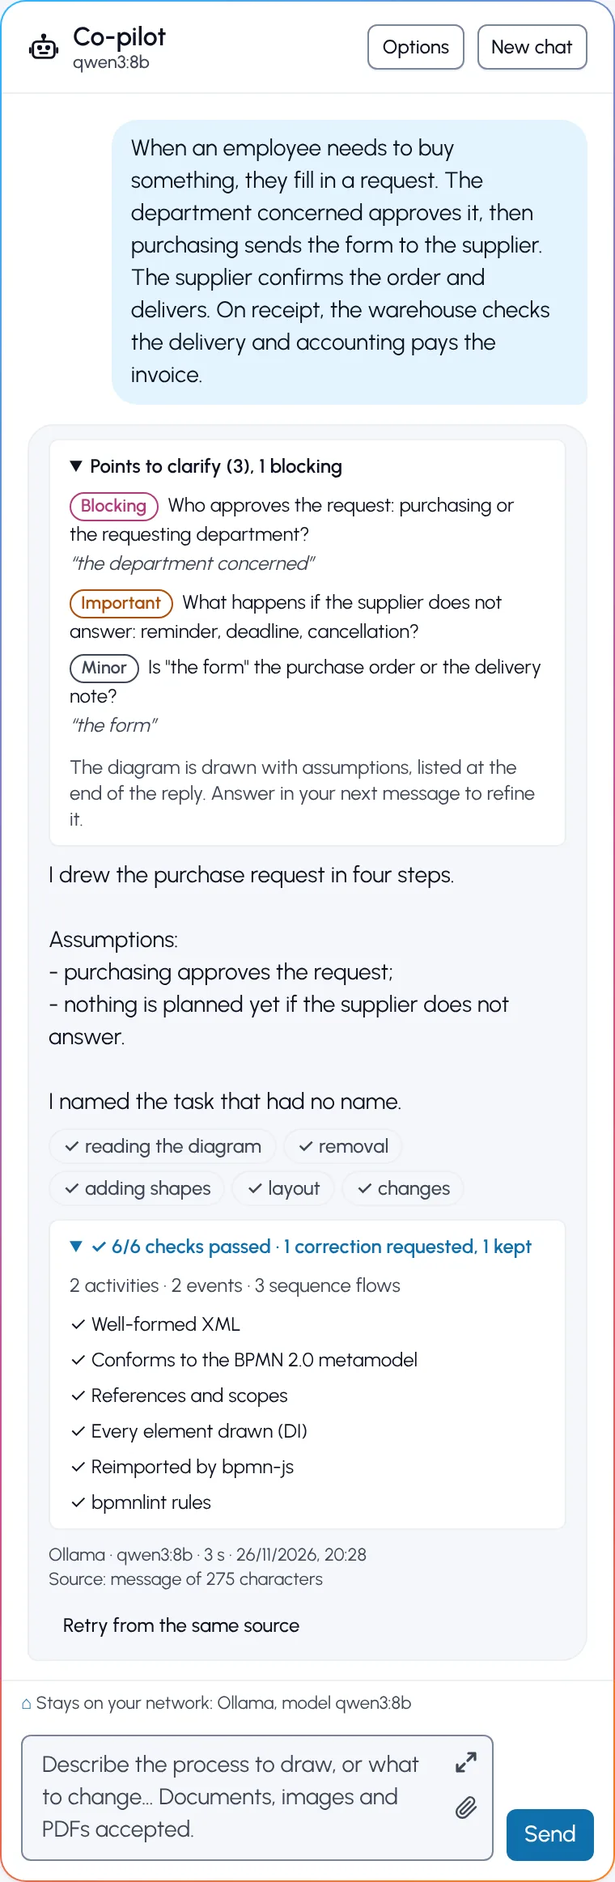
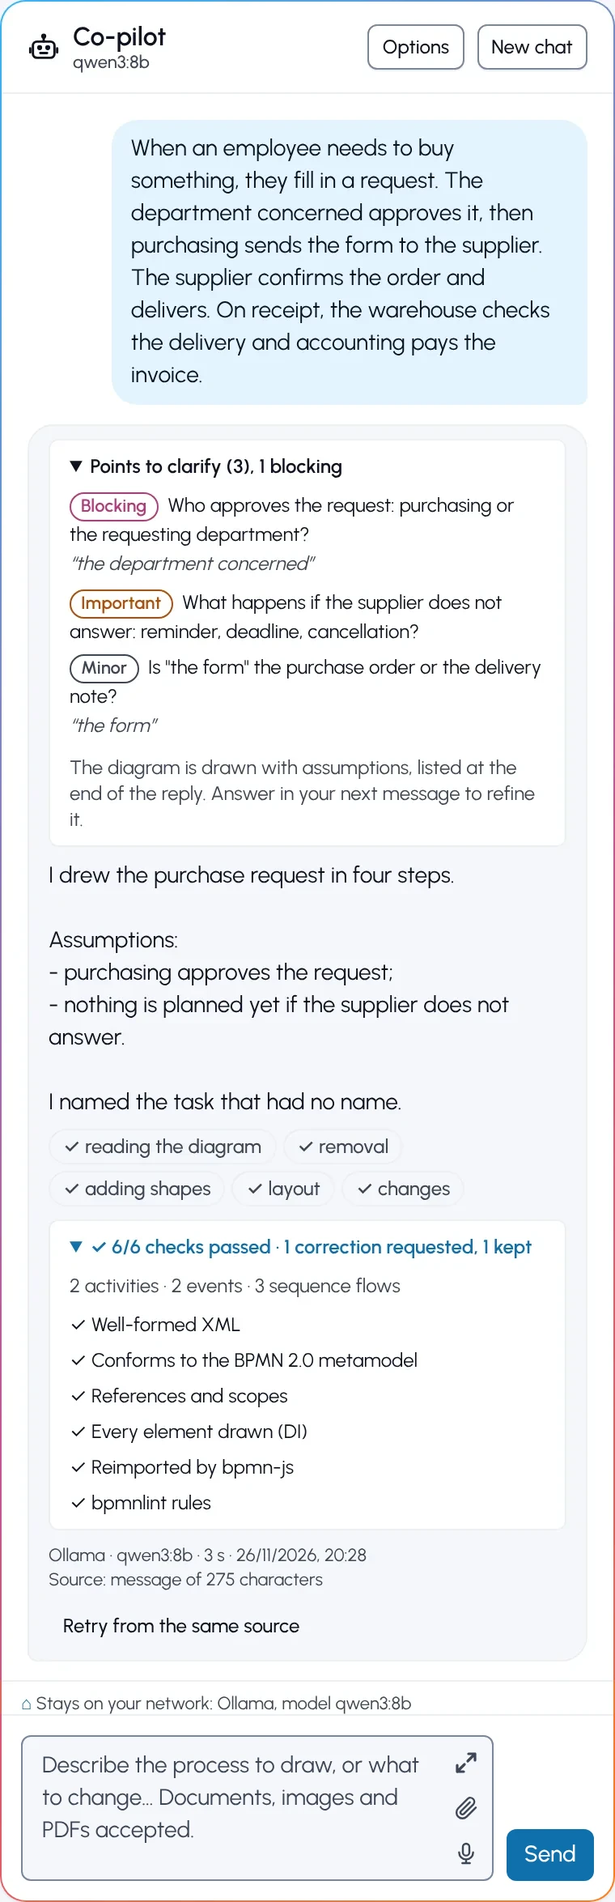
Add on-device voice dictation to the AI co-pilot
A microphone button under the paperclip transcribes speech into the input
box with the Web Speech API in on-device mode (processLocally), so neither
the audio nor the text leaves the browser. The button only appears when the
browser offers on-device recognition. Dictation is continuous until clicked
again, follows the interface language, and never sends on its own.

Allow the microphone for the site itself in the Docker image headers, and
document dictation in the help, the privacy notes and the README.

diff --git a/aide.html b/aide.html
@@ -408,6 +408,7 @@
           <li>La zone de saisie grandit avec le texte. Le bouton dans son coin ouvre un grand éditeur, pour coller un long texte ou ouvrir un fichier .txt ou .md. <kbd>Ctrl</kbd>+<kbd>Entrée</kbd> envoie.</li>
           <li><span class="uib">Nouvelle discussion</span> repart de zéro. Le schéma, lui, ne change pas.</li>
           <li><span class="uib">Arrêter</span> interrompt une réponse en cours.</li>
+          <li><span class="uib"><svg class="ico" viewBox="0 0 24 24" fill="none" stroke="currentColor" stroke-width="1.8" stroke-linecap="round" stroke-linejoin="round" aria-hidden="true"><rect x="9" y="3" width="6" height="11" rx="3"/><path d="M5.5 11a6.5 6.5 0 0 0 13 0M12 17.5V21M8.5 21h7"/></svg>Dicter</span>, sous le trombone, transcrit votre voix dans la zone de saisie, dans la langue de l'interface. Un clic lance la dictée, un autre l'arrête. Pendant la dictée, le bouton est rouge et le texte provisoire s'affiche en gris au-dessus de la saisie. Rien ne part sans <span class="uib">Envoyer</span> : relisez d'abord, un mot mal compris change le dessin. La voix est reconnue sur votre appareil, ni le son ni le texte ne quittent le navigateur. Il faut Chrome ou Edge 139 ou plus, ou Firefox 160 ou plus, sur ordinateur. Ailleurs, le bouton n'apparaît pas. À la première dictée, le navigateur télécharge une fois le modèle vocal de la langue et demande l'accès au micro.</li>
         </ul>
 
         <h3>3. Partir d'un fichier</h3>
@@ -646,7 +647,7 @@ Pour finir : vérifie le diagramme, corrige ce qui échoue et résume le process
         </div>
         <h3 id="controles-ia">Critique, contrôles et traçabilité</h3>
         <p>Autour de chaque réponse, le co-pilote montre ce qu'il a compris, ce que l'éditeur a vérifié et d'où vient le résultat.</p>
-        <figure><img src="/src/help/img/fr-ia-controles.webp" width="380" height="1188" alt="Panneau du co-pilote après une demande d'achat : trois points à clarifier marqués Bloquant, Important et Mineur, la réponse avec ses hypothèses, le rapport 6/6 contrôles réussis avec 1 correction demandée et 1 retenue, la ligne fournisseur, modèle, durée et date, le bouton Relancer depuis la même source et la ligne de destination au-dessus du champ." loading="lazy" /><figcaption>Points à clarifier, rapport de contrôle, traçabilité et destination, autour d'une réponse.</figcaption></figure>
+        <figure><img src="/src/help/img/fr-ia-controles.webp" width="380" height="1200" alt="Panneau du co-pilote après une demande d'achat : trois points à clarifier marqués Bloquant, Important et Mineur, la réponse avec ses hypothèses, le rapport 6/6 contrôles réussis avec 1 correction demandée et 1 retenue, la ligne fournisseur, modèle, durée et date, le bouton Relancer depuis la même source et la ligne de destination au-dessus du champ." loading="lazy" /><figcaption>Points à clarifier, rapport de contrôle, traçabilité et destination, autour d'une réponse.</figcaption></figure>
         <ul>
           <li><strong>Critique de la demande.</strong> Avant de dessiner une description (200 caractères au moins, ou un fichier joint), le modèle relève ce qui est ambigu ou manquant : acteurs, déclencheur, résultats, décisions, exceptions et délais, boucles, documents échangés, vocabulaire flou. Chaque point porte une gravité (<span class="ui">Bloquant</span>, <span class="ui">Important</span>, <span class="ui">Mineur</span>), la question à trancher et, s'il existe, le passage cité. Le dessin part aussitôt, avec des hypothèses que le modèle liste en fin de réponse. Répondez aux questions dans le message suivant pour affiner le diagramme.</li>
           <li><strong>Rapport de contrôle.</strong> Après chaque réponse qui a modifié le diagramme, l'éditeur le vérifie lui-même, sans appel au modèle. Le rapport donne les compteurs (pools, couloirs, activités, passerelles, événements, flux) et six contrôles : XML bien formé, conformité au métamodèle BPMN 2.0 (éléments et attributs connus), références et portées (un flux de séquence reste dans son processus, un flux de message relie deux pools), chaque élément dessiné (partie graphique DI complète), réimport par bpmn-js sans avertissement, règles bpmnlint sans erreur. Un clic sur la ligne du rapport en déplie le détail.</li>
@@ -685,6 +686,7 @@ Pour finir : vérifie le diagramme, corrige ce qui échoue et résume le process
           <!-- online -->
           <li>Vos diagrammes, vos réglages et vos clés API restent dans votre navigateur. Ils ne sont transmis ni à nous ni à l'hébergeur du site (GitHub Pages).</li>
           <li>Si vous utilisez le co-pilote IA, vos messages, le diagramme, vos fichiers joints et votre clé partent directement de votre navigateur chez le fournisseur choisi, qui applique ses propres conditions et sa politique de confidentialité. N'y mettez pas de données que vous ne confieriez pas à ce fournisseur.</li>
+          <li>La dictée vocale du co-pilote reconnaît la voix sur votre appareil : ni le son ni le texte dicté ne quittent le navigateur avant que vous envoyiez le message.</li>
           <li>Comme tout hébergeur web, GitHub Pages garde des journaux techniques, dont votre adresse IP.</li>
           <li>Le site stable compte ses visites de façon anonyme, sans cookie (rien n'est compté sur la version de développement), conformément aux <a href="https://www.cnil.fr/fr/cookies-solutions-pour-les-outils-de-mesure-daudience" target="_blank" rel="noopener">recommandations de la CNIL</a> pour l'audience exemptée de consentement. L'adresse IP n'est pas enregistrée. Elle sert uniquement à déterminer le pays, la région et la ville. Sont collectés : la page consultée et le site de provenance, les caractéristiques de l'appareil transmises par le navigateur, et quelques actions sans leur contenu (création, ouverture ou export d'un diagramme, utilisation du co-pilote, type de fournisseur connecté, temps d'utilisation par tranche, clic vers la page de soutien). Les signaux « Do Not Track » et « Global Privacy Control » désactivent la mesure.</li>
           <li>Le site ne charge aucun script tiers.</li>
@@ -694,6 +696,7 @@ Pour finir : vérifie le diagramme, corrige ce qui échoue et résume le process
           <!-- docker -->
           <li>Vos diagrammes, vos réglages et vos clés API restent dans votre navigateur, ou sur votre serveur pour ce que vous y enregistrez. Rien n'est envoyé à l'auteur de l'éditeur.</li>
           <li>Si vous utilisez le co-pilote IA, vos messages, le diagramme et vos fichiers joints passent par votre serveur jusqu'au fournisseur choisi, qui applique ses propres conditions et sa politique de confidentialité. N'y mettez pas de données que vous ne confieriez pas à ce fournisseur.</li>
+          <li>La dictée vocale du co-pilote reconnaît la voix sur votre appareil : ni le son ni le texte dicté ne quittent le navigateur avant que vous envoyiez le message.</li>
           <li>Un agent connecté par MCP lit et modifie le diagramme ouvert. Ce qu'il en fait dépend de l'agent et de son fournisseur.</li>
           <li>Cette version ne mesure pas sa fréquentation et ne charge aucun script tiers.</li>
           </ul>

diff --git a/help.html b/help.html
@@ -408,6 +408,7 @@
           <li>The input box grows with the text. The button in its corner opens a large editor, to paste long text or open a .txt or .md file. <kbd>Ctrl</kbd>+<kbd>Enter</kbd> sends.</li>
           <li><span class="uib">New chat</span> starts over. Your drawing does not change.</li>
           <li><span class="uib">Stop</span> interrupts an answer in progress.</li>
+          <li><span class="uib"><svg class="ico" viewBox="0 0 24 24" fill="none" stroke="currentColor" stroke-width="1.8" stroke-linecap="round" stroke-linejoin="round" aria-hidden="true"><rect x="9" y="3" width="6" height="11" rx="3"/><path d="M5.5 11a6.5 6.5 0 0 0 13 0M12 17.5V21M8.5 21h7"/></svg>Dictate</span>, under the paperclip, transcribes your voice into the input box, in the interface language. One click starts dictation, another stops it. While dictating, the button turns red and the provisional text shows in gray above the input. Nothing is sent until you click <span class="uib">Send</span>: read it first, a misheard word changes the drawing. Speech is recognized on your device: neither the sound nor the text leaves the browser. It needs Chrome or Edge 139 or later, or Firefox 160 or later, on a computer. Elsewhere, the button does not appear. On the first dictation, the browser downloads the speech model for the language once and asks for microphone access.</li>
         </ul>
 
         <h3>3. Start from a file</h3>
@@ -646,7 +647,7 @@ To finish: check the diagram, fix what fails and sum up the process in five line
         </div>
         <h3 id="ai-checks">Review, checks and traceability</h3>
         <p>Around each answer, the co-pilot shows what it understood, what the editor checked and where the result comes from.</p>
-        <figure><img src="/src/help/img/en-ia-controles.webp" width="380" height="1163" alt="AI co-pilot panel after a purchase request: three points to clarify marked Blocking, Important and Minor, the answer with its assumptions, the report 6/6 checks passed with 1 correction requested and 1 kept, the provider, model, duration and date line, the Retry from the same source button and the destination line above the input." loading="lazy" /><figcaption>Points to clarify, check report, traceability and destination, around an answer.</figcaption></figure>
+        <figure><img src="/src/help/img/en-ia-controles.webp" width="380" height="1175" alt="AI co-pilot panel after a purchase request: three points to clarify marked Blocking, Important and Minor, the answer with its assumptions, the report 6/6 checks passed with 1 correction requested and 1 kept, the provider, model, duration and date line, the Retry from the same source button and the destination line above the input." loading="lazy" /><figcaption>Points to clarify, check report, traceability and destination, around an answer.</figcaption></figure>
         <ul>
           <li><strong>Review of the request.</strong> Before drawing a description (200 characters or more, or an attached file), the model lists what is ambiguous or missing: actors, trigger, results, decisions, exceptions and deadlines, loops, documents exchanged, vague wording. Each point has a severity (<span class="ui">Blocking</span>, <span class="ui">Important</span>, <span class="ui">Minor</span>), the question to settle and, when there is one, the passage quoted. The drawing starts right away, with assumptions the model lists at the end of its answer. Answer the questions in your next message to refine the diagram.</li>
           <li><strong>Check report.</strong> After each answer that changed the diagram, the editor checks it itself, without calling the model. The report gives the counts (pools, lanes, activities, gateways, events, flows) and six checks: well-formed XML, conformance to the BPMN 2.0 metamodel (known elements and attributes), references and scopes (a sequence flow stays in its process, a message flow connects two pools), every element drawn (complete DI), reimport by bpmn-js without warnings, no bpmnlint error. Click the report line to unfold the details.</li>
@@ -685,6 +686,7 @@ To finish: check the diagram, fix what fails and sum up the process in five line
           <!-- online -->
           <li>Your diagrams, settings and API keys stay in your browser. They are not sent to us, nor to the host of this site (GitHub Pages).</li>
           <li>If you use the AI co-pilot, your messages, the diagram, your attached files and your key go straight from your browser to the chosen provider, which applies its own terms and privacy policy. Do not include data you would not trust that provider with.</li>
+          <li>The co-pilot's voice dictation recognizes speech on your device: neither the sound nor the dictated text leaves the browser until you send the message.</li>
           <li>Like any web host, GitHub Pages keeps technical logs, including your IP address.</li>
           <li>The stable site counts its visits anonymously, without cookies (nothing is counted on the development version), according to the <a href="https://www.cnil.fr/fr/cookies-solutions-pour-les-outils-de-mesure-daudience" target="_blank" rel="noopener">recommendations of the CNIL</a> (the French data protection authority, page in French) for audience measurement exempt from consent. The IP address is not recorded. It is only used to determine the country, region and city. The data collected is: the page viewed and the referring site, the device characteristics sent by the browser, and a few actions without their content (creating, opening or exporting a diagram, using the co-pilot, type of provider connected, active time in ranges, click on the support link). "Do Not Track" and "Global Privacy Control" signals turn the measurement off.</li>
           <li>The site loads no third-party script.</li>
@@ -694,6 +696,7 @@ To finish: check the diagram, fix what fails and sum up the process in five line
           <!-- docker -->
           <li>Your diagrams, settings and API keys stay in your browser, or on your server for what you save there. Nothing is sent to the author of the editor.</li>
           <li>If you use the AI co-pilot, your messages, the diagram and your attached files go through your server to the chosen provider, which applies its own terms and privacy policy. Do not include data you would not trust that provider with.</li>
+          <li>The co-pilot's voice dictation recognizes speech on your device: neither the sound nor the dictated text leaves the browser until you send the message.</li>
           <li>An agent connected through MCP reads and edits the open diagram. What it does with it depends on the agent and its provider.</li>
           <li>This version does not measure its audience and loads no third-party script.</li>
           </ul>

diff --git a/src/voice-input.js b/src/voice-input.js
@@ -1,0 +1,141 @@
+// Dictée vocale du Co-pilote IA : un clic sur le micro lance la dictée, un autre l'arrête.
+//
+// Reconnaissance sur l'appareil seulement (Web Speech API, processLocally) : ni l'audio
+// ni le texte ne quittent le navigateur. Le bouton n'apparaît pas quand le navigateur ne
+// sait pas reconnaître la voix en local (Safari, navigateurs mobiles, anciennes versions) :
+// sans processLocally, Chrome et Safari envoient l'audio à leur service en ligne.
+//
+// Le texte dicté s'ajoute à la zone de saisie, et rien ne part sans un clic sur Envoyer.
+// La langue de dictée suit celle de l'interface.
+
+import { lang, T } from './i18n/lang.js'
+
+export const MIC_ICON = `<svg xmlns="http://www.w3.org/2000/svg" width="16" height="16" viewBox="0 0 24 24" fill="none" stroke="currentColor" stroke-width="1.8" stroke-linecap="round" stroke-linejoin="round" aria-hidden="true"><rect x="9" y="3" width="6" height="11" rx="3"/><path d="M5.5 11a6.5 6.5 0 0 0 13 0M12 17.5V21M8.5 21h7"/></svg>`
+
+const Recognition = globalThis.SpeechRecognition || globalThis.webkitSpeechRecognition
+
+// Vrai quand le navigateur sait au moins dire si la reconnaissance locale est possible.
+export const voiceSupported = () => typeof Recognition === 'function' && typeof Recognition.available === 'function'
+
+const LANG_TAG = lang === 'fr' ? 'fr-FR' : 'en-US'
+const OPTIONS = { langs: [LANG_TAG], processLocally: true }
+
+// Ajoute un morceau de texte dicté à la suite de ce qui est déjà écrit.
+function join(before, piece) {
+  const text = piece.trim()
+  if (!text) return before
+  if (!before) return text.charAt(0).toUpperCase() + text.slice(1)
+  return /\s$/.test(before) ? before + text : `${before} ${text}`
+}
+
+// button : le bouton micro. input : la zone de saisie. interim : élément qui montre le
+// texte provisoire. notify(kind, text) : message dans le fil du chat. onText() : après
+// chaque ajout, pour que la zone de saisie s'ajuste à son contenu.
+export function setupVoiceInput({ button, input, interim, notify, onText }) {
+  let recognition = null
+  let active = false // l'utilisateur veut dicter, même entre deux redémarrages
+  let preparing = false
+
+  const setState = (state) => {
+    button.dataset.state = state
+    button.setAttribute('aria-pressed', String(state === 'listening'))
+    const label = {
+      idle: T('Dictate (speech recognized on this device)', 'Dicter (voix reconnue sur cet appareil)'),
+      preparing: T('Preparing speech recognition…', 'Préparation de la reconnaissance vocale…'),
+      listening: T('Stop dictation', 'Arrêter la dictée'),
+    }[state]
+    button.title = label
+    button.setAttribute('aria-label', label)
+  }
+  const showInterim = (text) => {
+    interim.textContent = text
+    interim.hidden = !text
+  }
+
+  function stop() {
+    active = false
+    showInterim('')
+    setState('idle')
+    if (recognition) {
+      const r = recognition
+      recognition = null
+      try { r.stop() } catch {}
+    }
+  }
+
+  function listen() {
+    const r = new Recognition()
+    r.lang = LANG_TAG
+    r.continuous = true
+    r.interimResults = true
+    r.processLocally = true
+    r.onresult = (e) => {
+      let provisional = ''
+      for (let i = e.resultIndex; i < e.results.length; i++) {
+        const result = e.results[i]
+        if (result.isFinal) {
+          input.value = join(input.value, result[0].transcript)
+          onText()
+        } else provisional += result[0].transcript
+      }
+      showInterim(provisional.trim())
+    }
+    r.onerror = (e) => {
+      if (e.error === 'no-speech' || e.error === 'aborted') return
+      const message = {
+        'not-allowed': T('Microphone access refused. Allow it in the site settings of the browser, then try again.', "Accès au micro refusé. Autorisez-le dans les réglages du site du navigateur, puis réessayez."),
+        'audio-capture': T('No microphone found.', 'Aucun micro trouvé.'),
+        'service-not-allowed': T('Speech recognition on this device is not available for this language.', "La reconnaissance vocale sur cet appareil n'est pas disponible pour cette langue."),
+        'language-not-supported': T('Speech recognition on this device is not available for this language.', "La reconnaissance vocale sur cet appareil n'est pas disponible pour cette langue."),
+      }[e.error] || T(`Dictation stopped: ${e.error}.`, `Dictée arrêtée : ${e.error}.`)
+      notify('error', message)
+      stop()
+    }
+    // En dictée continue, le navigateur s'arrête de lui-même après un long silence :
+    // on relance tant que l'utilisateur n'a pas cliqué sur Arrêter.
+    r.onend = () => {
+      if (recognition !== r) return
+      showInterim('')
+      if (active) {
+        try { r.start(); return } catch {}
+      }
+      stop()
+    }
+    recognition = r
+    r.start()
+    setState('listening')
+  }
+
+  async function start() {
+    if (preparing) return
+    preparing = true
+    setState('preparing')
+    try {
+      let status = await Recognition.available(OPTIONS)
+      if (status === 'downloadable' || status === 'downloading') {
+        notify('notice', T(
+          'First use: the browser downloads the speech recognition model for this language, once. Dictation starts when it is ready.',
+          'Première utilisation : le navigateur télécharge une fois le modèle de reconnaissance vocale de cette langue. La dictée démarre dès qu\'il est prêt.'))
+        status = (await Recognition.install(OPTIONS)) ? 'available' : 'unavailable'
+      }
+      if (status !== 'available') {
+        notify('error', T(
+          'This browser cannot recognize speech on this device for this language. Dictation stays off so that no audio leaves the device.',
+          "Ce navigateur ne sait pas reconnaître la voix sur cet appareil pour cette langue. La dictée reste coupée pour qu'aucun son ne quitte l'appareil."))
+        setState('idle')
+        return
+      }
+      active = true
+      listen()
+    } catch (err) {
+      notify('error', T(`Dictation unavailable: ${err?.message || err}`, `Dictée indisponible : ${err?.message || err}`))
+      stop()
+    } finally {
+      preparing = false
+    }
+  }
+
+  setState('idle')
+  button.addEventListener('click', () => (active ? stop() : start()))
+  return { stop, get active() { return active } }
+}

diff --git a/src/chat-panel.js b/src/chat-panel.js
@@ -22,6 +22,7 @@ import { newAiRound, undoAiRound } from './ai-changes.js'
 import { isLocalAddress } from './ai/local-address.js'
 import { addDialogClose } from './dialog-close.js'
 import { setChatModel } from './copilot-analysis.js'
+import { MIC_ICON, setupVoiceInput, voiceSupported } from './voice-input.js'
 
 const TOOL_LABELS = {
   get_shapes: T('reading the diagram', 'lecture du diagramme'),
@@ -141,12 +142,14 @@ export function createChatPanel({ mode, chatUrl, bridge, tools }) {
     <div id="chat-log" aria-live="polite"></div>
     <div id="chat-attachments" hidden></div>
     <div id="chat-destination" hidden></div>
+    <div id="chat-voice-interim" aria-live="polite" hidden></div>
     <form id="chat-form">
       <div class="chat-input-wrap">
         <textarea id="chat-input" placeholder="${T('Describe the process to draw, or what to change… Documents, images and PDFs accepted.', 'Décrivez le processus à dessiner ou à modifier… Documents, images et PDF acceptés.')}"></textarea>
         <button type="button" id="chat-expand" title="${T('Expand the input', 'Agrandir la zone de saisie')}" aria-label="${T('Expand the input', 'Agrandir la zone de saisie')}">${EXPAND_ICON}</button>
         <button type="button" id="chat-attach" title="${T('Attach a file: image, PDF, Word, Excel, PowerPoint, text, CSV, JSON… (you can also paste or drop it)', 'Joindre un fichier : image, PDF, Word, Excel, PowerPoint, texte, CSV, JSON… (on peut aussi le coller ou le glisser)')}" aria-label="${T('Attach a file', 'Joindre un fichier')}">${ATTACH_ICON}</button>
         <input type="file" id="chat-attach-input" accept="image/png,image/jpeg,image/gif,image/webp,application/pdf,${TEXT_FILE_ACCEPT}" multiple hidden>
+        ${voiceSupported() ? `<button type="button" id="chat-mic">${MIC_ICON}</button>` : ''}
       </div>
       <button class="btn primary" type="submit" id="chat-send" title="${T('Send (Enter; Shift+Enter for a new line)', 'Envoyer (Entrée ; Maj+Entrée pour aller à la ligne)')}">${T('Send', 'Envoyer')}</button>
     </form>
@@ -650,6 +653,16 @@ export function createChatPanel({ mode, chatUrl, bridge, tools }) {
     }
   })
 
+  const micButton = panel.querySelector('#chat-mic')
+  const voice = micButton && setupVoiceInput({
+    button: micButton,
+    input,
+    interim: panel.querySelector('#chat-voice-interim'),
+    notify: add,
+    onText: fitInput,
+  })
+  if (micButton) panel.classList.add('has-mic')
+
   form.addEventListener('submit', (e) => {
     e.preventDefault()
     if (controller) {
@@ -685,6 +698,7 @@ export function createChatPanel({ mode, chatUrl, bridge, tools }) {
         `${model.providerLabel || model.label} ne lit que les images PNG et JPEG. Convertissez l'image, ou faites-en une capture d'écran.`))
       return
     }
+    voice?.stop()
     input.value = ''
     fitInput()
     pending = []

diff --git a/src/theme/leylines.css b/src/theme/leylines.css
@@ -1619,3 +1619,25 @@ dialog .dlg-close:focus-visible,
 }
 @keyframes expert-pulse { 50% { opacity: .45; } }
 @media (prefers-reduced-motion: reduce) { #toolbar > #btn-expert.running::after { animation: none; } }
+
+/* Dictée vocale : micro sous le trombone, texte provisoire au-dessus de la saisie. */
+#chat-panel.has-mic #chat-input { min-height: 90px; }
+#chat-panel #chat-mic {
+  position: absolute; top: 60px; right: 4px; width: 26px; height: 26px;
+  display: grid; place-items: center; padding: 0; border: 0; border-radius: var(--radius-sm);
+  background: transparent; color: var(--ink-muted); cursor: pointer;
+}
+#chat-panel #chat-mic:hover { background: var(--surface-raised); color: var(--ink); }
+#chat-panel #chat-mic:focus-visible { outline: 2px solid var(--focus-ring); outline-offset: 1px; }
+#chat-panel #chat-mic[data-state="preparing"] { color: var(--accent); cursor: progress; }
+#chat-panel #chat-mic[data-state="listening"] { background: #d93025; color: #fff; animation: chat-mic-pulse 1.4s ease-in-out infinite; }
+@keyframes chat-mic-pulse {
+  0%, 100% { box-shadow: 0 0 0 0 rgba(217, 48, 37, 0.45); }
+  50% { box-shadow: 0 0 0 5px rgba(217, 48, 37, 0); }
+}
+@media (prefers-reduced-motion: reduce) { #chat-panel #chat-mic[data-state="listening"] { animation: none; } }
+#chat-panel #chat-voice-interim {
+  padding: var(--space-1) var(--space-3); border-top: 1px solid var(--line);
+  color: var(--ink-muted); font-style: italic; font-size: 13px;
+}
+#chat-panel #chat-voice-interim[hidden] { display: none; }

diff --git a/src/privacy.js b/src/privacy.js
@@ -62,7 +62,9 @@ export function setupPrivacy({ container, env = import.meta.env }) {
           <p>${T('Your messages, the diagram and your API key are sent from your browser directly to the provider you selected (Anthropic, OpenAI, Mistral, etc.).',
                  "Vos messages, le diagramme et votre clé API sont envoyés directement de votre navigateur au fournisseur que vous avez choisi (Anthropic, OpenAI, Mistral, etc.).")}</p>
           <p>${T("The provider's own terms and privacy policy apply, and it bills you for usage.",
-                 "Les conditions d'utilisation et la politique de confidentialité de ce fournisseur s'appliquent, et c'est lui qui vous facture l'usage.")}</p>`)
+                 "Les conditions d'utilisation et la politique de confidentialité de ce fournisseur s'appliquent, et c'est lui qui vous facture l'usage.")}</p>
+          <p>${T('Voice dictation is recognized on your device: neither the sound nor the dictated text leaves the browser until you send the message.',
+                 "La dictée vocale est reconnue sur votre appareil : ni le son ni le texte dicté ne quittent le navigateur avant l'envoi du message.")}</p>`)
 
   // Encadré mis en avant : la clé d'API recommandée pour cet éditeur.
   const responsible = `<section class="pv-section pv-responsible" aria-labelledby="pv-responsible-title">

diff --git a/README.md b/README.md
@@ -406,7 +406,7 @@ it), unless the table says `mcp/.env`, then run `docker compose up -d --build`.
   diagram in one click.
 - **AI co-pilot**: describe a process and it draws it, in your language. You can paste or drop
   images, PDF files, office documents (Word, Excel, PowerPoint, OpenDocument) and text files (CSV,
-  JSON, XML, Markdown…), whose text is read in the browser. The model is chosen in Options. What it adds or changes is outlined on the
+  JSON, XML, Markdown…), whose text is read in the browser. You can also dictate: speech is recognized on the device (Chrome, Edge 139+ or Firefox 160+), and no audio leaves the browser. The model is chosen in Options. What it adds or changes is outlined on the
   canvas, a pill sums up the changes, and one click shows the before and after or undoes the whole
   answer.
 - **Interface**: light or dark theme, English or French, resizable side panels. Made for a computer

diff --git a/docs/online-privacy.md b/docs/online-privacy.md
@@ -31,6 +31,7 @@ this editor, one that expires on its own and has a spending cap (see [Good pract
 | Provider addresses and models | `localStorage` | nowhere |
 | Conversation with the co-pilot | page memory only, lost on reload | to the provider, with each message |
 | Chat attachments (images, PDF, office documents, text files) | page memory (for office documents and text files, only the extracted text is kept) | to the provider, with the message |
+| Voice dictation | recognized on the device by the browser (Web Speech API with `processLocally`), the text goes into the input box | nowhere: the microphone button only appears when the browser can recognize speech on the device, so no audio goes to a speech service |
 
 ## Every request the page makes
 
